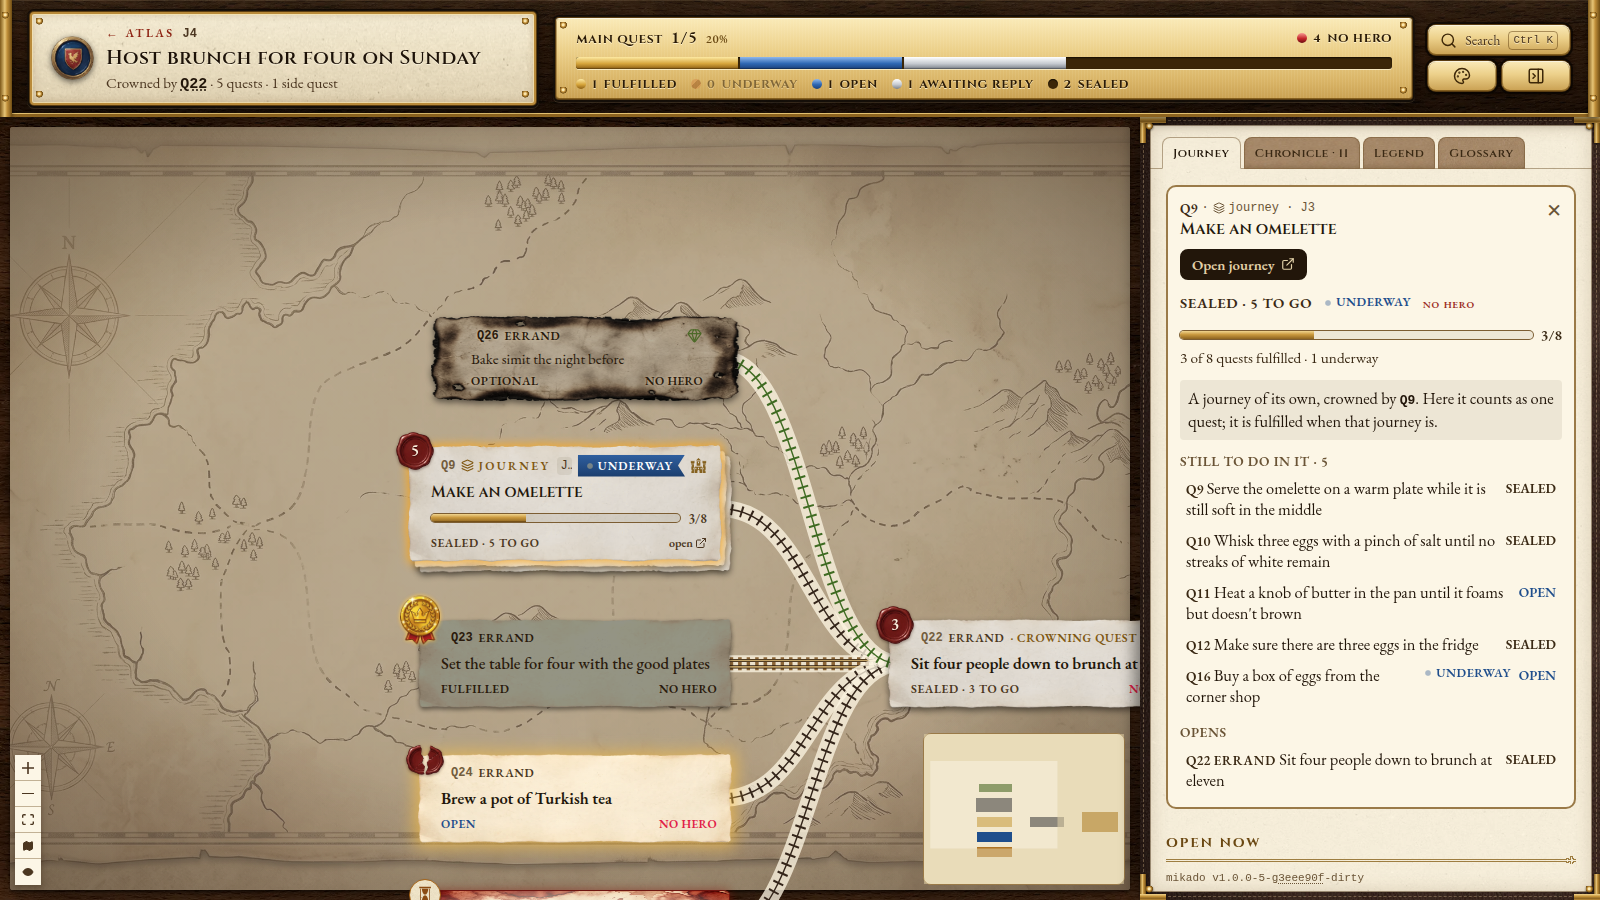
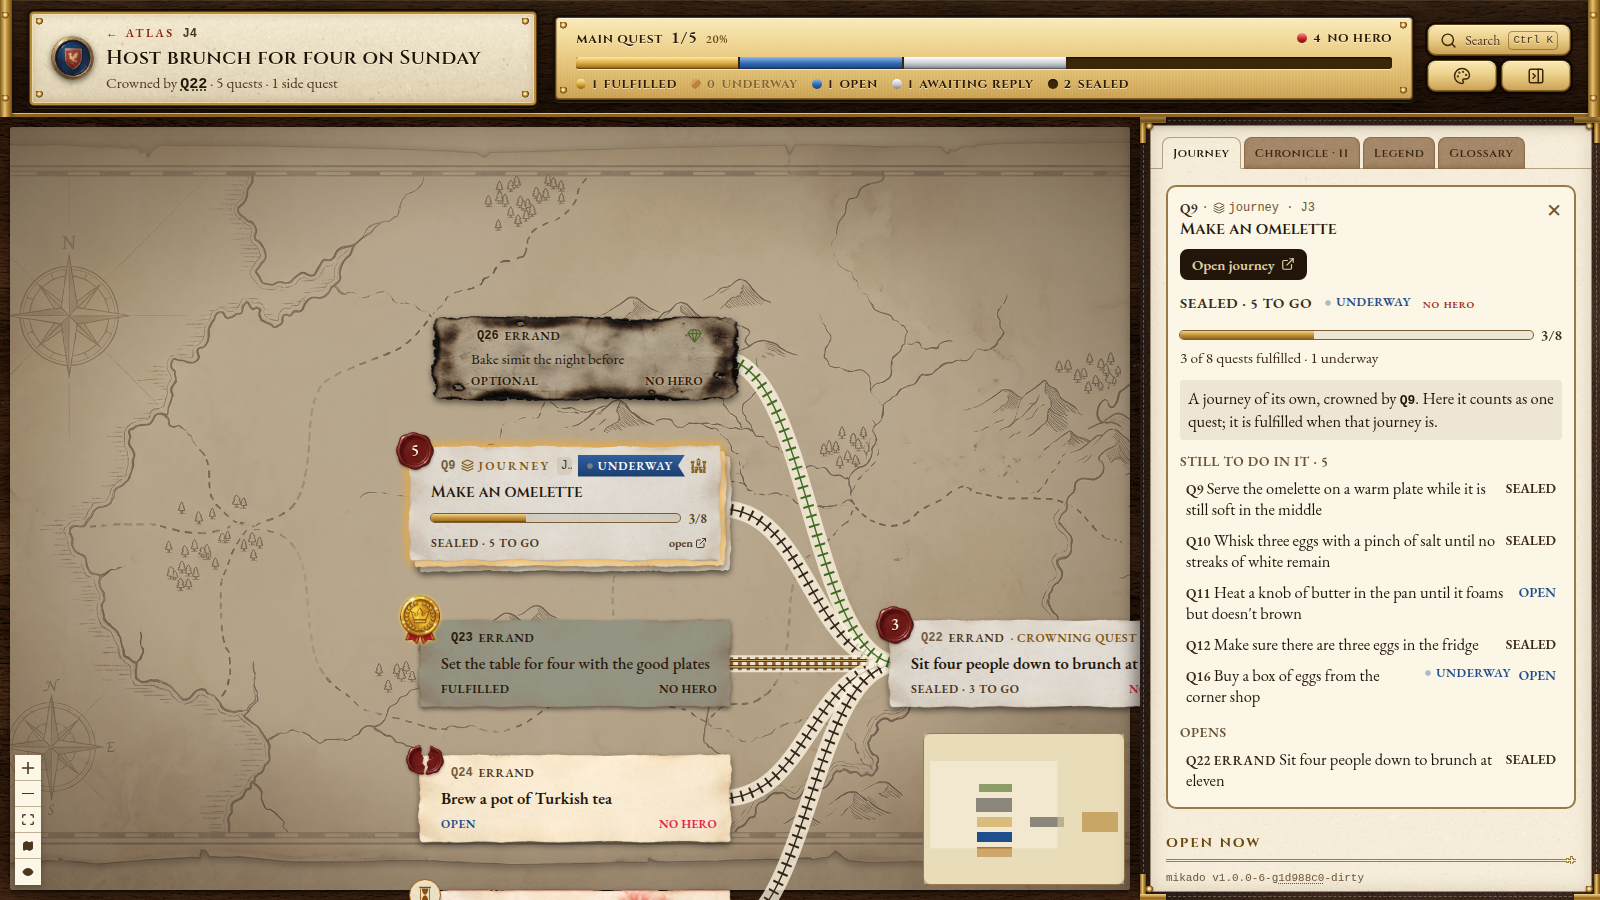
war table: a petition awaiting reply has drops of blood on it; only the selected card glows
A quest awaiting a reply is now drawn on the same hand-cut sheet as the others, with a few big
drops of blood soaked into it (paper-petition.webp, generated with Gemini for mikado), instead of
square paper stained red at the edges and stretched to the card; the old sheet is deleted. It has
no glow of its own: its cue is the drops and a thin dark-red line inside its edge, and its words
get a pale halo where they cross a drop.

Only the selected card glows now. Open quests lose their amber glow and cast the same plain
shadow as the others, so the one glowing card on the table is the one you picked. The legend says
clean, darkened and drops of blood instead of lit and light out. Screenshots retaken.

Changed region(s): [[0.25, 0.84, 0.4688, 1.0], [0.2812, 0.8089, 0.4375, 0.84]]

diff --git a/src/web/src/quest/quest.css b/src/web/src/quest/quest.css
@@ -954,25 +954,25 @@
    and its shadow a blurred, blackened copy of the picture under it (::after), so both follow the deckle; a
    drop-shadow filter would too, but Chromium smears it when the chart is zoomed. The borders are gone, so
    each state's cue is carried by that layer: a tint over the paper (cut to the sheet by the picture's own
-   outline), a filter on the paper alone, a coloured edge just inside it, or a glow in place of the shadow.
-   A journey card's sheets behind it are the same paper. */
-.quest-theme[data-theme='wartable'] .quest-item:not([data-status='awaiting'], [data-status='cancelled']) {
+   outline), a filter on the paper alone, a coloured edge just inside it, or another sheet (awaiting). Only
+   the selected card swaps its shadow for a glow. A journey card's sheets behind it are the same paper. */
+.quest-theme[data-theme='wartable'] .quest-item:not([data-status='cancelled']) {
   --wt-paper: none; /* a filter on the paper alone, never on the writing */
   --wt-edge: none; /* inset shadows on the paper, cut to its deckled outline */
-  --wt-under: brightness(0) blur(3px); /* the copy under the paper: a shadow, or a glow */
+  --wt-under: brightness(0) blur(3px); /* the copy under the paper: a shadow, or the selected card's glow */
   --wt-under-opacity: 0.5;
   --wt-under-y: 3px;
   --wt-under-inset: -2px -3px;
   --wt-flip: ; /* a sheet behind a journey card is turned round, so its edge is not the front's again */
 }
-.quest-theme[data-theme='wartable'] .quest-item:not([data-status='awaiting'], [data-status='cancelled']) :is(.quest-plate, .quest-behind) {
+.quest-theme[data-theme='wartable'] .quest-item:not([data-status='cancelled']) :is(.quest-plate, .quest-behind) {
   isolation: isolate; /* keeps the paper layers behind the writing but on the card */
   background: none !important;
   border-color: transparent !important;
   box-shadow: none !important;
 }
-.quest-theme[data-theme='wartable'] .quest-item:not([data-status='awaiting'], [data-status='cancelled']) :is(.quest-plate, .quest-behind)::before,
-.quest-theme[data-theme='wartable'] .quest-item:not([data-status='awaiting'], [data-status='cancelled']) :is(.quest-plate, .quest-behind)::after {
+.quest-theme[data-theme='wartable'] .quest-item:not([data-status='cancelled']) :is(.quest-plate, .quest-behind)::before,
+.quest-theme[data-theme='wartable'] .quest-item:not([data-status='cancelled']) :is(.quest-plate, .quest-behind)::after {
   content: '';
   position: absolute;
   inset: -2px -3px; /* the deckle falls just outside where the card's edge was */
@@ -981,7 +981,7 @@
   background: url('../assets/wartable/paper-quest.webp') center / 100% 100% no-repeat;
   pointer-events: none;
 }
-.quest-theme[data-theme='wartable'] .quest-item:not([data-status='awaiting'], [data-status='cancelled']) :is(.quest-plate, .quest-behind)::before {
+.quest-theme[data-theme='wartable'] .quest-item:not([data-status='cancelled']) :is(.quest-plate, .quest-behind)::before {
   background:
     linear-gradient(var(--wt-tint), var(--wt-tint)),
     url('../assets/wartable/paper-quest.webp') center / 100% 100% no-repeat;
@@ -990,7 +990,7 @@
   filter: var(--wt-paper);
   transform: var(--wt-flip);
 }
-.quest-theme[data-theme='wartable'] .quest-item:not([data-status='awaiting'], [data-status='cancelled']) :is(.quest-plate, .quest-behind)::after {
+.quest-theme[data-theme='wartable'] .quest-item:not([data-status='cancelled']) :is(.quest-plate, .quest-behind)::after {
   inset: var(--wt-under-inset);
   z-index: -2;
   box-shadow: none;
@@ -998,16 +998,13 @@
   opacity: var(--wt-under-opacity);
   transform: translateY(var(--wt-under-y)) var(--wt-flip);
 }
-.quest-theme[data-theme='wartable'] .quest-item:not([data-status='awaiting'], [data-status='cancelled']) .quest-behind {
+.quest-theme[data-theme='wartable'] .quest-item:not([data-status='cancelled']) .quest-behind {
   --wt-flip: scale(-1, -1);
 }
-/* Open: warm candlelight round the sheet instead of the blue pulse, and a little on the paper. */
+/* Open: a little warmth on the paper, instead of the blue pulse. It casts the plain shadow: on the war table
+   only the selected card glows. */
 .quest-theme[data-theme='wartable'] .quest-item[data-status='available']:not([data-side]) {
   --wt-tint: rgba(255, 236, 190, 0.28);
-  --wt-under: brightness(0) invert(0.7) sepia(1) saturate(3.5) hue-rotate(-16deg) blur(8px);
-  --wt-under-opacity: 0.6;
-  --wt-under-y: 1px;
-  --wt-under-inset: -6px -8px;
 }
 /* Sealed: a touch cooler and greyer. */
 .quest-theme[data-theme='wartable'] .quest-item[data-status='locked']:not([data-side]) {
@@ -1029,26 +1026,34 @@
 .quest-theme[data-theme='wartable'] .quest-item[data-status='done'] .quest-plate:not(.quest-lit) :is(.quest-title, .quest-status, .quest-key, .quest-kind, .quest-nohero) {
   color: #2a1a0c !important;
 }
-/* Awaiting reply: the paper is stained red from its edges in, as if the wait has bled into it, so a quest
-   held up by someone else stands out from across the table. The sheet is stretched to each card, so the
-   stains stay at its edges; a wash of clean paper over the middle keeps the writing readable on a short card,
-   where the stained border would otherwise reach under the text. */
+/* Awaiting reply: a petition held up by someone else. It is written on the same hand-cut sheet as the
+   others, but with a few big drops of blood soaked into it (paper-petition.webp), away from its edges, and a
+   thin dark-red line just inside the deckle, so it stands out from across the table without shouting or
+   glowing. (An NPC's edge is a brighter, wider red with a wash inside it; this one is thin and dark.) */
 .quest-theme[data-theme='wartable'] .quest-item[data-status='awaiting'] {
-  --wt-ink-rule: #6e1410;
-  --wt-shadow: 0 1px 1px rgba(60, 8, 4, 0.4), 0 4px 12px -2px rgba(90, 12, 6, 0.45), 0 0 10px 1px rgba(150, 30, 18, 0.35);
+  --wt-edge: inset 0 0 1.5px 1.5px rgba(110, 18, 14, 0.7);
 }
-.quest-theme[data-theme='wartable'] .quest-item[data-status='awaiting'] .quest-plate {
-  background:
-    radial-gradient(ellipse 72% 62% at center, rgba(246, 236, 214, 0.9) 35%, rgba(246, 236, 214, 0.55) 70%, rgba(246, 236, 214, 0) 100%),
-    #efdcc4 url('../assets/wartable/paper-awaiting.webp') center / 100% 100% no-repeat !important;
+.quest-theme[data-theme='wartable'] .quest-item[data-status='awaiting'] :is(.quest-plate, .quest-behind)::before {
+  background-image:
+    linear-gradient(var(--wt-tint), var(--wt-tint)),
+    url('../assets/wartable/paper-petition.webp');
+  mask-image: url('../assets/wartable/paper-petition.webp');
+}
+.quest-theme[data-theme='wartable'] .quest-item[data-status='awaiting'] :is(.quest-plate, .quest-behind)::after {
+  background-image: url('../assets/wartable/paper-petition.webp');
 }
 /* The paper carries the red, so the small red words on it (Petition, the status, No hero) turn dark brown,
-   with a pale halo that lifts them off the stains at the card's edges. */
+   and the title too, all with a pale halo that lifts them off a drop where they cross one. */
 .quest-theme[data-theme='wartable'] .quest-item[data-status='awaiting'] :is(.quest-kind, .quest-status, .quest-nohero) {
   color: #3d1a0c !important;
   text-shadow:
     0 0 2px rgba(246, 236, 214, 0.95),
     0 0 5px rgba(246, 236, 214, 0.8);
+}
+.quest-theme[data-theme='wartable'] .quest-item[data-status='awaiting'] .quest-title {
+  text-shadow:
+    0 0 2px rgba(246, 236, 214, 0.9),
+    0 0 6px rgba(246, 236, 214, 0.7);
 }
 /* Abandoned: the sheet was burned. Its edges are charred black and ragged, with a few holes burned
    through, so it reads as dead from across the table; live work is lit, fulfilled work has its light out,
@@ -1179,7 +1184,7 @@
 .quest-theme[data-theme='wartable'] .quest-item .quest-plate.quest-lit {
   border-color: #c98a1e !important;
 }
-.quest-theme[data-theme='wartable'] .quest-item:not([data-status='awaiting'], [data-status='cancelled']) .quest-plate.quest-lit {
+.quest-theme[data-theme='wartable'] .quest-item:not([data-status='cancelled']) .quest-plate.quest-lit {
   --wt-under: brightness(0) invert(0.62) sepia(1) saturate(4) hue-rotate(-12deg) blur(5px);
   --wt-under-opacity: 0.85;
   --wt-under-y: 0px;
@@ -1316,16 +1321,9 @@
 .quest-theme[data-theme='wartable'] .wt-paper[data-paper='burnt']::before {
   filter: sepia(0.35) saturate(0.8) brightness(0.72);
 }
-/* Awaiting keeps its stained rectangle, as on its card. */
-.quest-theme[data-theme='wartable'] .wt-paper[data-paper='awaiting'] {
-  border: 1.5px solid #6e1410;
-  border-radius: 3px 5px 4px 6px / 5px 3px 6px 4px;
-  background: #efdcc4 url('../assets/wartable/paper-awaiting.webp') center / 100% 100% no-repeat;
-  box-shadow: 0 1px 1px rgba(60, 8, 4, 0.4), 0 0 8px 1px rgba(150, 30, 18, 0.35);
-}
 .quest-theme[data-theme='wartable'] .wt-paper[data-paper='awaiting']::before,
 .quest-theme[data-theme='wartable'] .wt-paper[data-paper='awaiting']::after {
-  display: none;
+  background-image: url('../assets/wartable/paper-petition.webp');
 }
 .quest-theme[data-theme='wartable'] .wt-crown {
   width: 32px;

diff --git a/src/web/src/quest/JourneyMap.tsx b/src/web/src/quest/JourneyMap.tsx
@@ -185,9 +185,9 @@ function WarLegend() {
       </Panel>
       <Panel title="The paper">
         <ul className="space-y-2.5">
-          {row(<span className="wt-paper" />, 'Lit: still to do')}
-          {row(<span className="wt-paper" data-paper="done" />, 'Dark, its light out: fulfilled')}
-          {row(<span className="wt-paper" data-paper="awaiting" />, 'Stained red from the edges: awaiting a reply')}
+          {row(<span className="wt-paper" />, 'Clean: still to do')}
+          {row(<span className="wt-paper" data-paper="done" />, 'Darkened: fulfilled')}
+          {row(<span className="wt-paper" data-paper="awaiting" />, 'Drops of blood soaked in: awaiting a reply')}
           {row(<span className="wt-paper" data-paper="burnt" />, 'Burned: abandoned')}
         </ul>
       </Panel>

diff --git a/src/web/src/assets/wartable/CREDITS.md b/src/web/src/assets/wartable/CREDITS.md
@@ -73,7 +73,7 @@ with a CSS `mask-image`, or used as a `border-image` 9-slice.
 |---|---|---|
 | `map.webp` | Generated with Google Gemini for mikado (2026-09-25) from a text prompt: a blank parchment campaign map, no labels | Made for this project; resized to 2400px and saved as WebP |
 | `crown-castle.webp`, `emblem.webp`, `seal.webp`, `seal-broken.webp` | Generated with Google Gemini for mikado (2026-09-25) as one asset sheet, then cut apart with the white background removed | Made for this project; 256px WebP with transparency |
-| `paper-awaiting.webp` | Generated with Google Gemini for mikado (2026-09-26) from the prompt: the card paper (`paper-card.webp`, as a reference) stained dark red from its edges in, like dried blood soaked into the fibres | Made for this project; white margin cropped, 768px WebP q80 |
 | `paper-abandoned.webp` | Generated with Google Gemini for mikado (2026-09-28) from the prompt: the card paper (`paper-card.webp`, as a reference) as a wide sheet badly burned at the edges, on a white background | Made for this project; white background keyed out to transparency (the burnt-through holes too), cropped, 768px WebP q90 |
 | `paper-quest.webp` | Generated with Google Gemini for mikado (2026-09-28) from the prompt: the card paper (`paper-card.webp`, as a reference) as a wide, clean, hand-cut sheet with softly deckled edges, on a white background | Made for this project; white background keyed out to transparency, cropped, 768px WebP q90 |
+| `paper-petition.webp` | Generated with Google Gemini for mikado (2026-09-28) from the prompt: the clean card sheet (`paper-quest.webp`, as a reference) with two or three big drops of dark red soaked into it, away from the edges | Made for this project; white background keyed out to transparency, cropped, 768px WebP q90 |
 | `medal.webp` | Generated with Google Gemini for mikado (2026-09-28) from the prompt: a gleaming gold victory medallion with a laurel wreath, a small crown and two crimson ribbon tails, in the style of `seal.webp` | Made for this project; background and Gemini's glow cut away (the medal's circle fitted and the ribbons kept), a soft golden glow redrawn, 256px WebP q90 |
